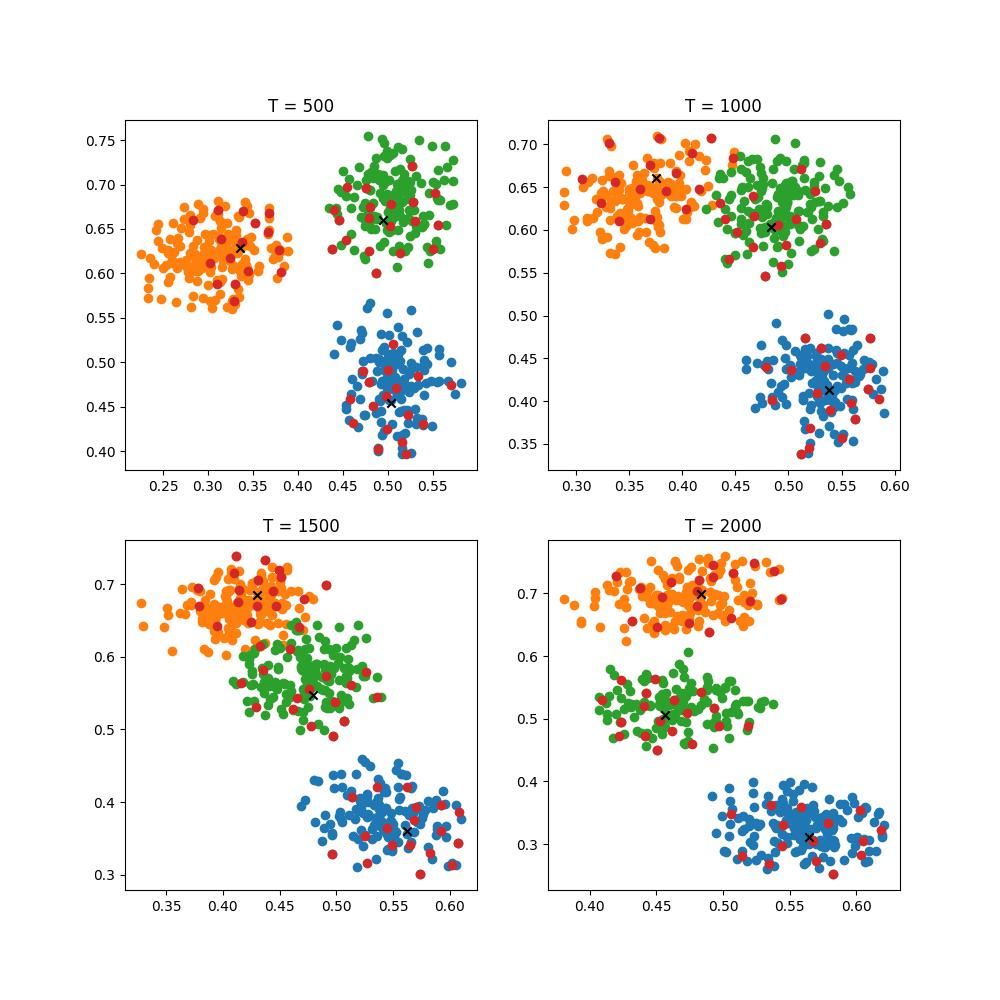
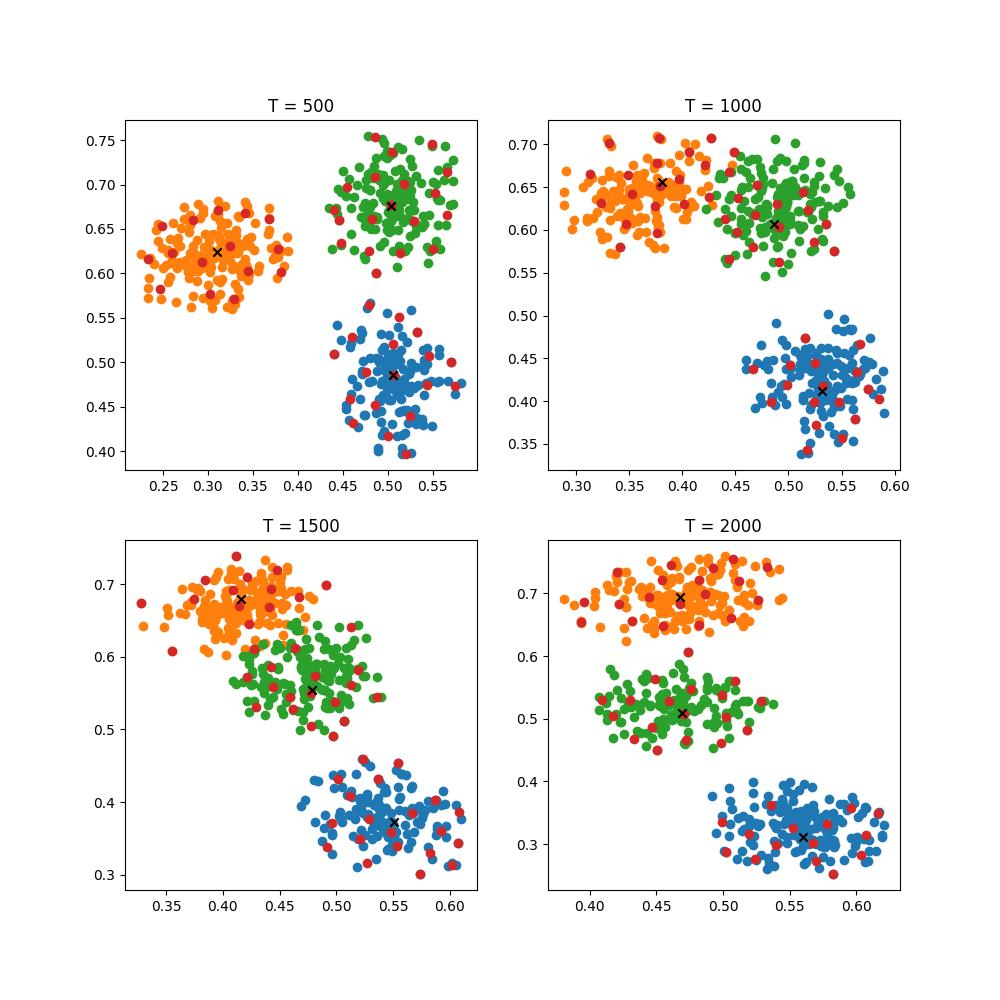
Improved CluStream implementation

diff --git a/clustream.py b/clustream.py
@@ -3,6 +3,9 @@ import typing
 from collections import defaultdict
 
 from river import base, cluster, stats, utils
+from river.utils import dict2numpy
+import numpy as np
+from sklearn import cluster as skcluster
 
 
 class CluStream(base.Clusterer):
@@ -132,6 +135,7 @@ class CluStream(base.Clusterer):
         self.time_window = time_window
         self.time_gap = time_gap
         self.seed = seed
+        self.offline_model = None
 
         self.kwargs = kwargs
 
@@ -201,18 +205,29 @@ class CluStream(base.Clusterer):
     
     def get_micro_clusters(self):
         self._mc_centers = {i: mc.center for i, mc in self.micro_clusters.items()}
-        return self._mc_centers
+        return np.array([dict2numpy(x) for x in dict2numpy(self._mc_centers)])
     
-    def get_clusters(self):
-        self._kmeans_mc = cluster.KMeans(
-            n_clusters=self.n_macro_clusters, seed=self.seed, **self.kwargs
-        )
-        for center in self._mc_centers.values():
-            self._kmeans_mc = self._kmeans_mc.learn_one(center)
+    
+    def offline_cluster(self):
+        if self._initialized : 
+            mc_centers = self.get_micro_clusters()
+            self.offline_model = skcluster.KMeans(n_clusters=self.n_macro_clusters,n_init=10)
+            self.offline_model.fit(mc_centers)
+            self.centers = self.offline_model.cluster_centers_
+        return self
 
-        self.centers = self._kmeans_mc.centers
+
+    
+
+    def offline_predict(self,X):
+        if self.offline_model != None :
+            return self.offline_model.predict(X)
+        else :
+            return None
+
         
-        return self.centers
+
+
 
     def learn_one(self, x, w=1.0):
 
